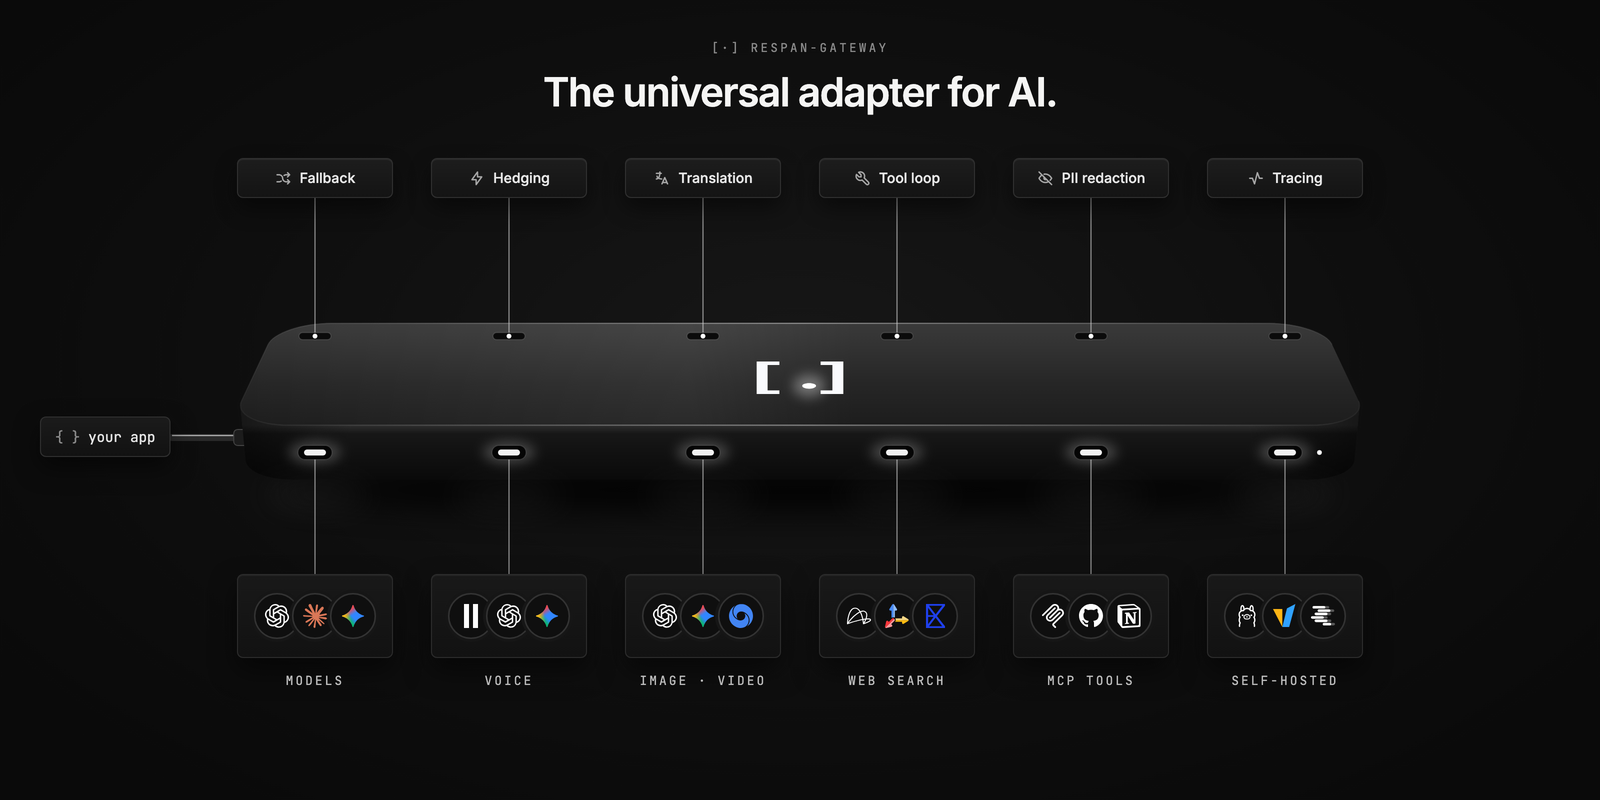
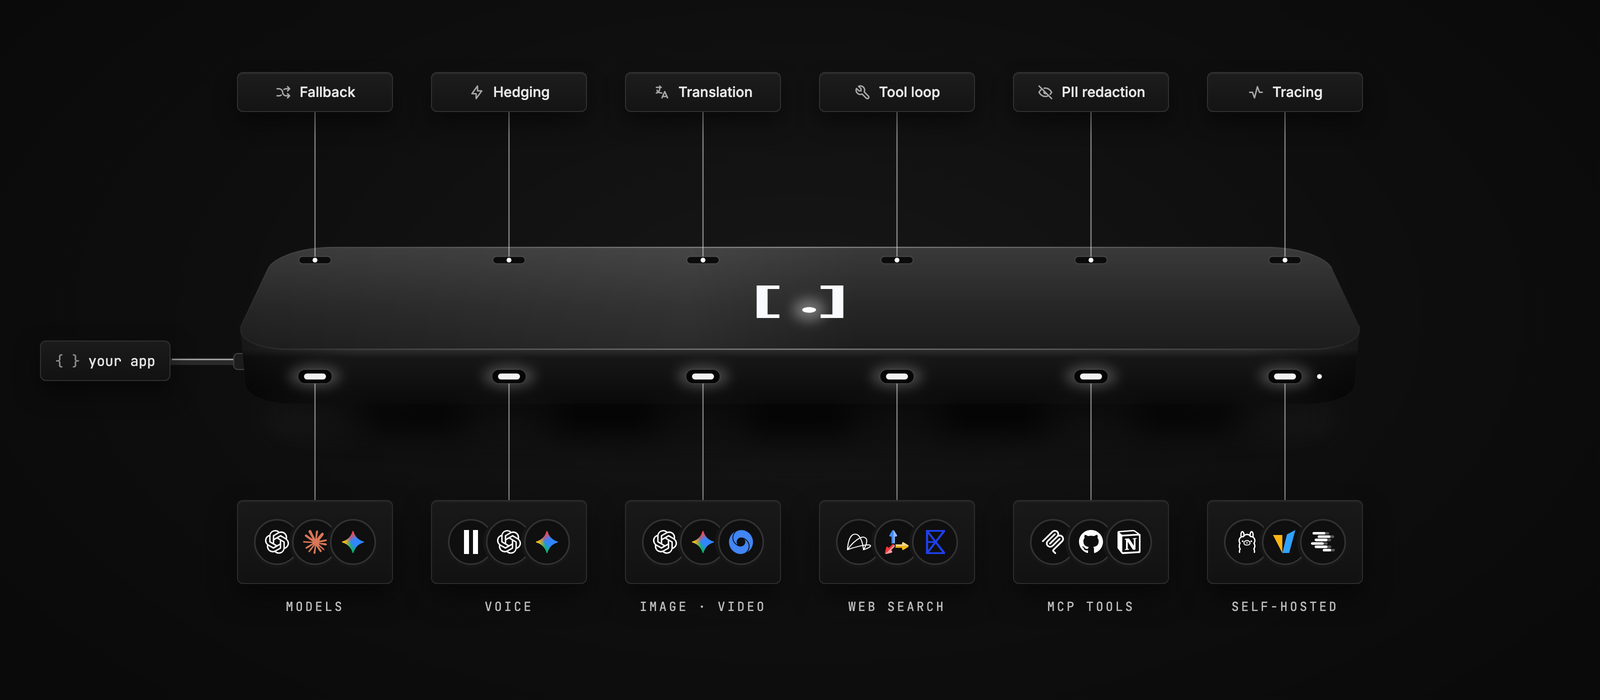
docs: move the tagline out of the hero image

diff --git a/README.md b/README.md
@@ -9,7 +9,7 @@
     <a href="https://pypi.org/project/respan-gateway/"><img src="https://img.shields.io/pypi/v/respan-gateway?style=flat&logo=python&logoColor=white&label=PyPI&color=6D28D9" alt="PyPI"></a>
     <a href="https://discord.com/invite/KEanfAafQQ"><img src="https://img.shields.io/badge/Discord-Join-5865F2?style=flat&logo=discord&logoColor=white" alt="Discord"></a>
   </div>
-  <p><b>The open-source AI gateway. Any SDK, any model, any tool.</b></p>
+  <p><b>The universal adapter for AI.</b></p>
 </div>
 
 ---
